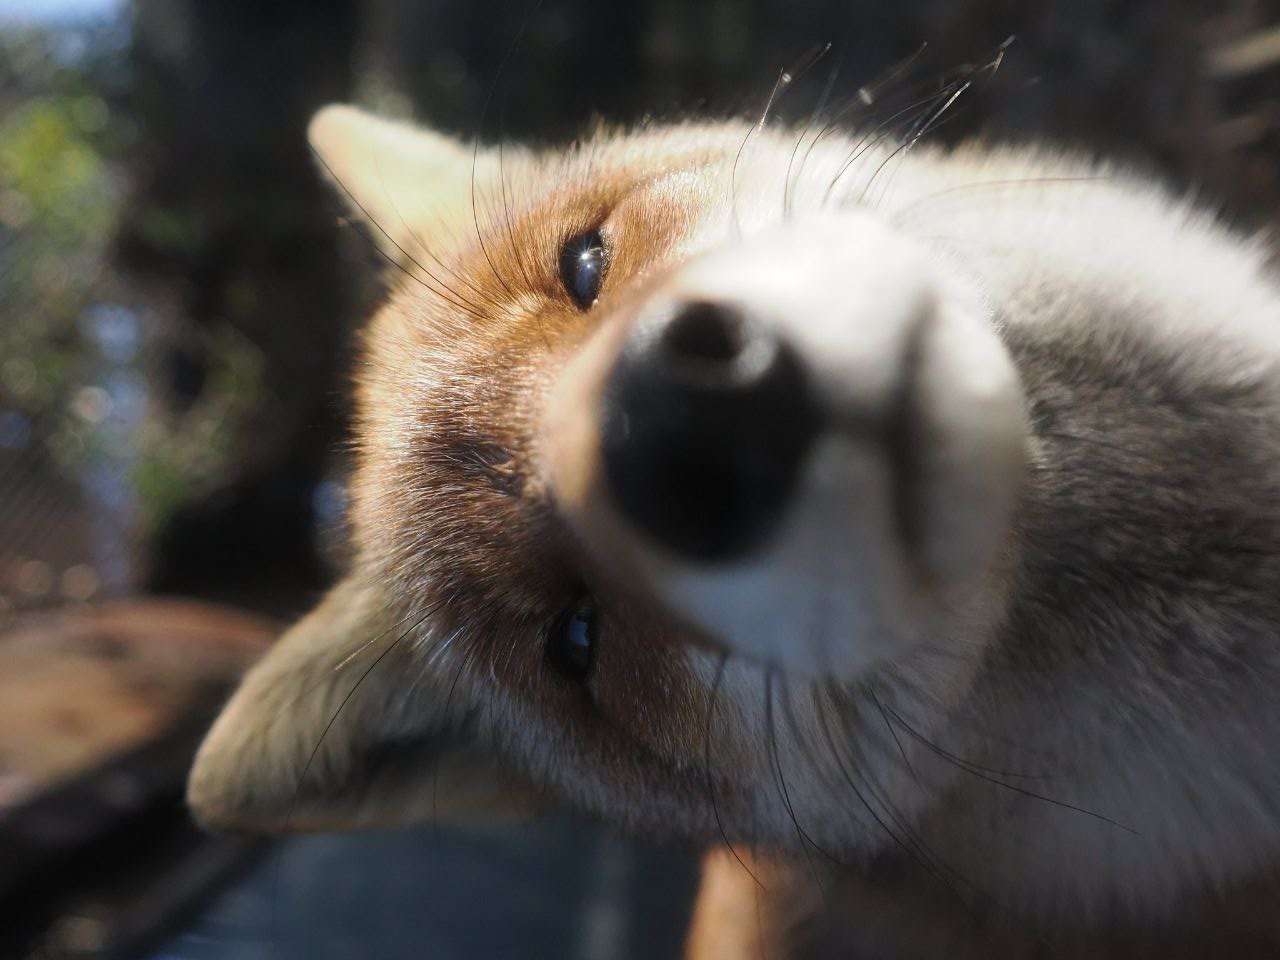
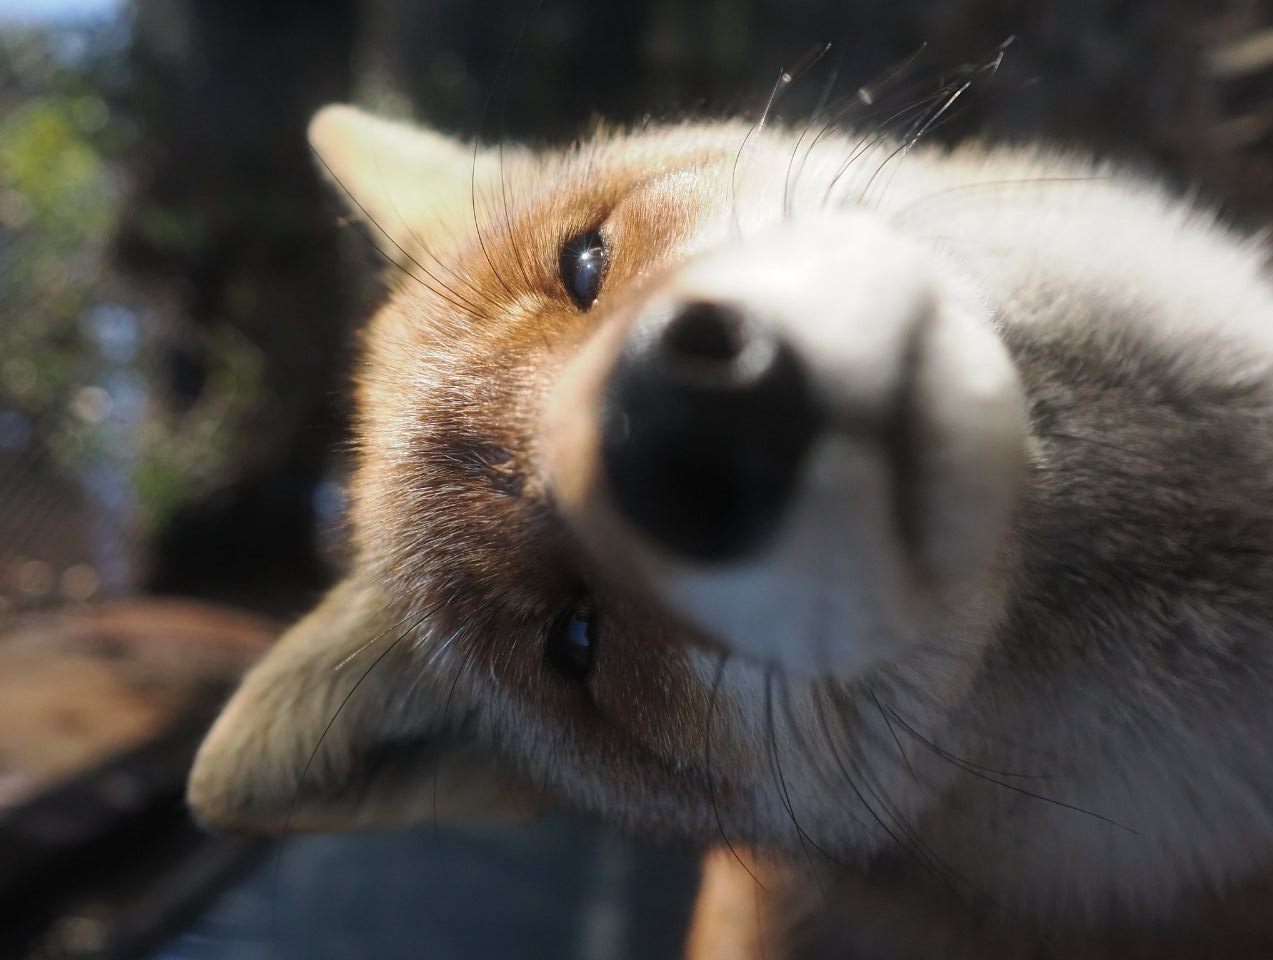
The proportions are now 100% correct, also introduced proportion variety

diff --git a/lisator.py b/lisator.py
@@ -1,26 +1,16 @@
 import sys
 import os
+import json
 
 file_name = sys.argv[1]
 for dir_ in ["compiled", "rendered"]:
     os.makedirs(dir_, exist_ok=True)
-def get_wh(path): # Stolen from https://stackoverflow.com/a/20380514
-    with open(fname, 'rb') as f:
-        head = f.read(24)
-        width, height = struct.unpack('>ii', head[16:24])
-        return width, height
 PAGEWIDTH_MM = 210
 PAGEHEIGHT_MM = 297
-proportions = []
-with open("allowable_proportions.txt", "w") as f:
-    for ycount in range(11, 16 + 1):
-        for xcount in range(8, 11 + 1):
-            w = PAGEWIDTH_MM/xcount
-            h = PAGEHEIGHT_MM/ycount
-            proportions.append(xcount, ycount, h/w)
-            f.write(f"{h}:{w}\n")
-w, h = get_wh(f"foxes/{file_name}")
-min(proportions, key=lambda p: min(abs(p - h/w), abs(p - w/h)))
+j = json.load(open(f"foxes/{file_name}.json"))
+cols = j["cols"]
+rows = j["rows"]
+del j
 with open(f"compiled/{file_name}.svg", "w") as f:
     class tag:
         def __init__(self, name, attrs=None):
@@ -35,10 +25,8 @@ with open(f"compiled/{file_name}.svg", "w") as f:
     f.write('<?xml version="1.0" encoding="UTF-8"?>')
     with tag("svg", f'width="{PAGEWIDTH_MM}mm" height="{PAGEHEIGHT_MM}mm" version="1.1" viewBox="0 0 {PAGEWIDTH_MM} {PAGEHEIGHT_MM}" xmlns="http://www.w3.org/2000/svg" xmlns:xlink="http://www.w3.org/1999/xlink"'):
         with tag("defs"):
-            XFOXES = 8
-            foxwidth = PAGEWIDTH_MM / XFOXES
-            YFOXES = 16
-            foxheight = PAGEHEIGHT_MM / YFOXES
+            foxwidth = PAGEWIDTH_MM / cols
+            foxheight = PAGEHEIGHT_MM / rows
             with tag("pattern", f'id="foxPattern" patternUnits="userSpaceOnUse" width="{foxwidth}" height="{foxheight}"'):
                 tag("image", f'xlink:href="{os.getcwd()}/foxes/{file_name}" width="{foxwidth}" height="{foxheight}" preserveAspectRatio="none"').add()
         tag("rect", f'width="100%" height="100%" fill="url(#foxPattern)"').add()

diff --git a/notes.py b/notes.py
@@ -1,0 +1,18 @@
+def int_checked(f):
+    assert int(f) == f
+    return int(f)
+print("Closest to a square (8/11):")
+print(f"{int_checked(210/8 * 4)}:{int_checked(297/11 * 4)}") # "* 4" to round up to an integer to use in GIMP with selection aspect ratio
+print("Less convenient fractions:")
+def get_fraction(rows, cols):
+    precision = 100000 # GIMP's precision: 6 digits
+    frac = (210/cols)/(297/rows)
+    return f"{int(frac * precision)}:{precision}"
+def print_fraction(rows, cols):
+    print(f"{rows=}, {cols=}, {get_fraction(rows, cols)}")
+print_fraction(15, 8)
+print_fraction(14, 8)
+print_fraction(13, 8)
+print_fraction(12, 8)
+print_fraction(10, 8)
+print_fraction(10, 10)
